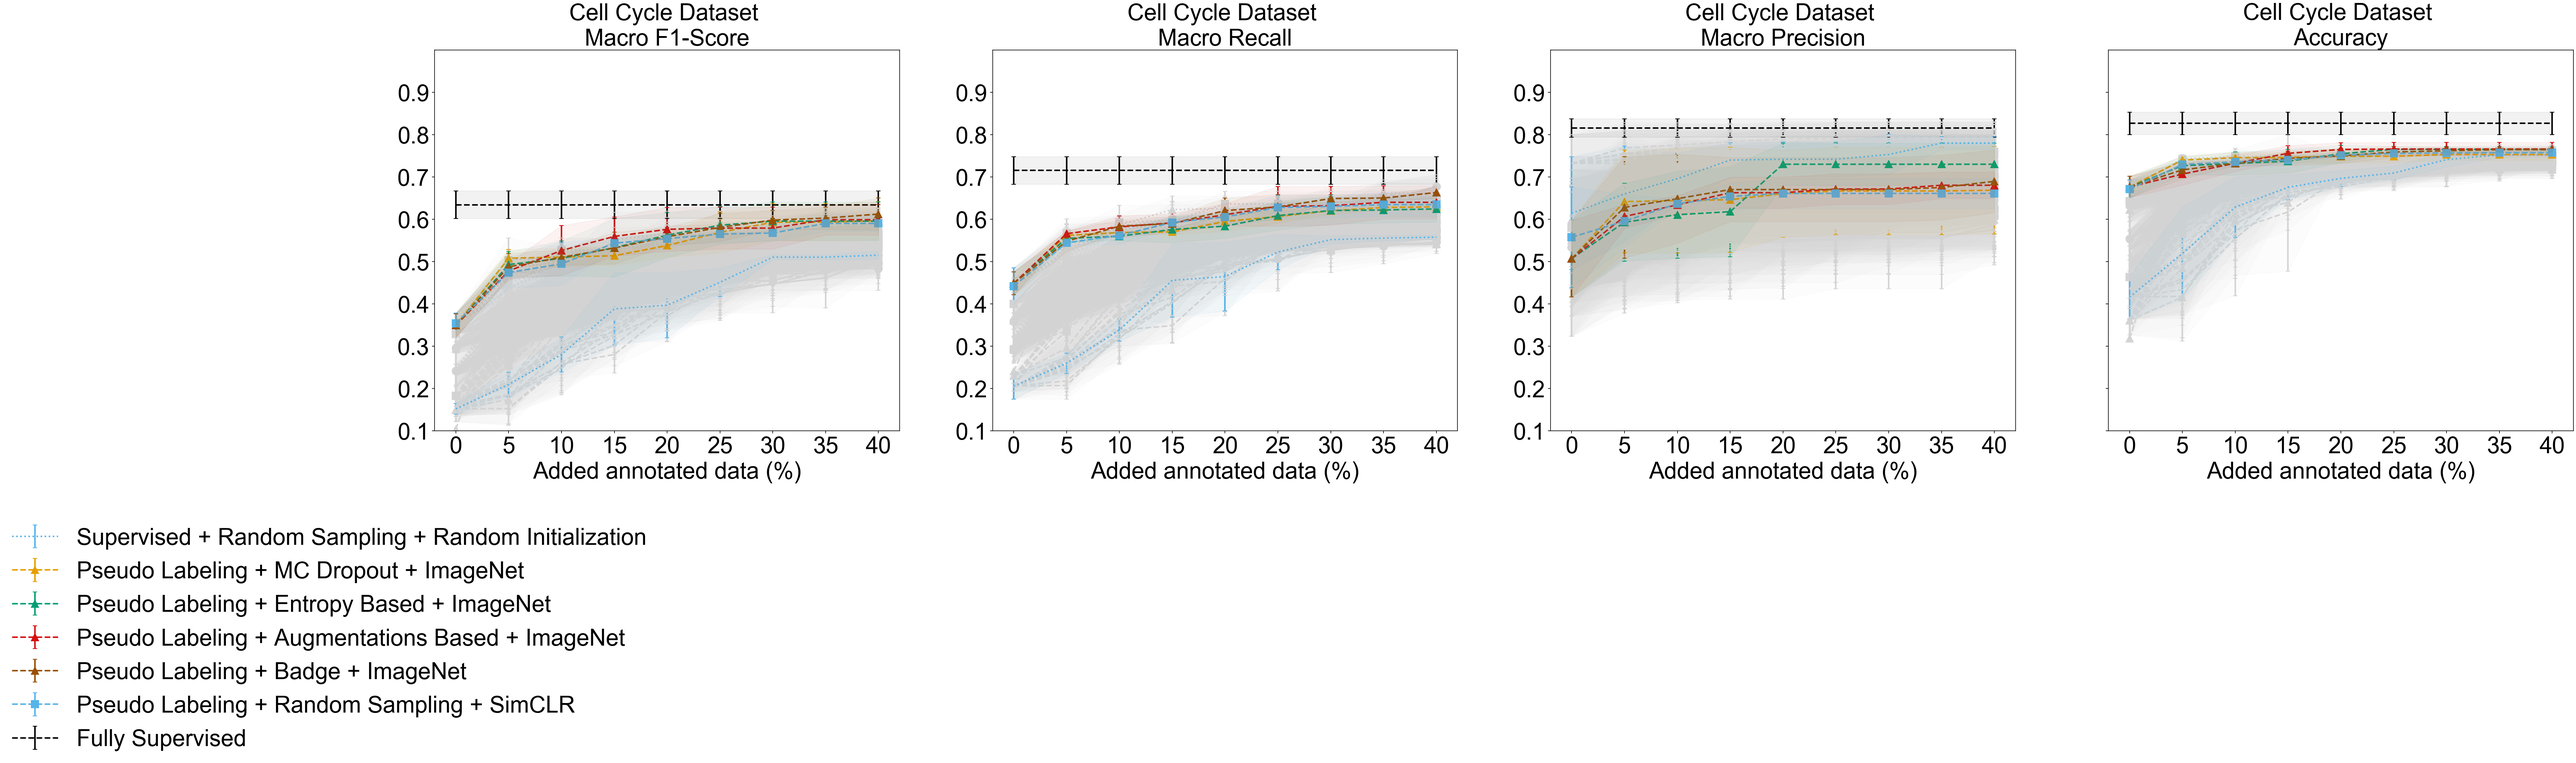
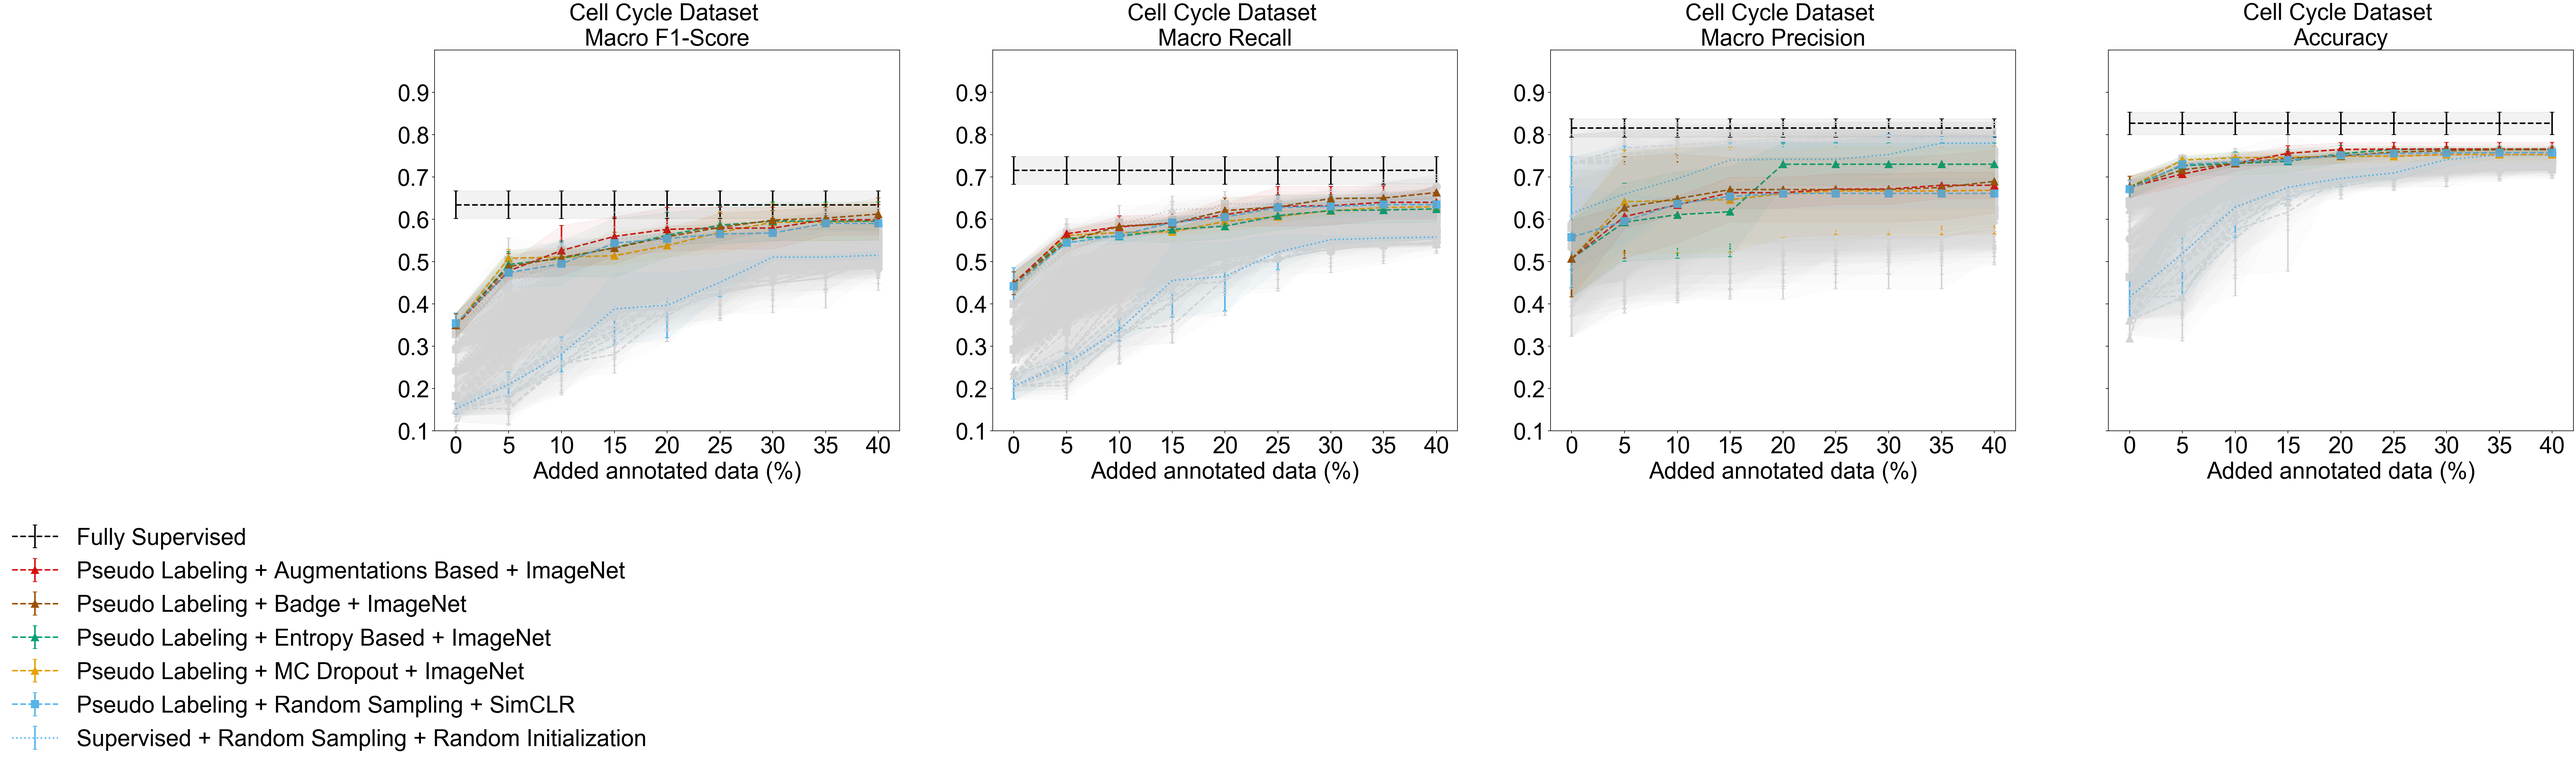
sorting the legend according to results, higher to lower

Changed region(s): [[0.0311, 0.6789, 0.2491, 0.8949], [0.0311, 0.9566, 0.2491, 0.9875]]

diff --git a/code/visualization.py b/code/visualization.py
@@ -921,7 +921,7 @@ if __name__ == '__main__':
               ]
     }
 
-    dataset = 'retinopathy'
+    dataset = 'jurkat'
 
     dataset_title = {'matek': 'White blood cells', 'jurkat': 'Jurkat cells cycle',
                      'isic': 'Skin Lesions',
@@ -1198,6 +1198,23 @@ if __name__ == '__main__':
     # fig.subplots_adjust(right=0.8, wspace=0.5, hspace=0.5)
     # fig.tight_layout()
     handles, labels = ax[0].get_legend_handles_labels()
+    labels_index = []
+
+    sorted_indexes = []
+
+    for method in top_n_methods:
+        for i, method_res in enumerate(methods_states_results['i']):
+            if method == method_res:
+                sorted_indexes.append(i)
+                break
+    labels_index.append(6)
+    for i in sorted_indexes:
+        for j, label in enumerate(labels):
+            if methods_states['i'][i] == label:
+                labels_index.append(j)
+                break
+    handles = [handles[i] for i in labels_index]
+    labels = [labels[i] for i in labels_index]
     lgd1 = ax[0].legend(handles, labels, bbox_to_anchor=(0.5, -0.2), prop=font)
     # lgd = fig.legend(handles, labels, loc='upper center', bbox_to_anchor=(0.5, -0.01), fancybox=True)
 
